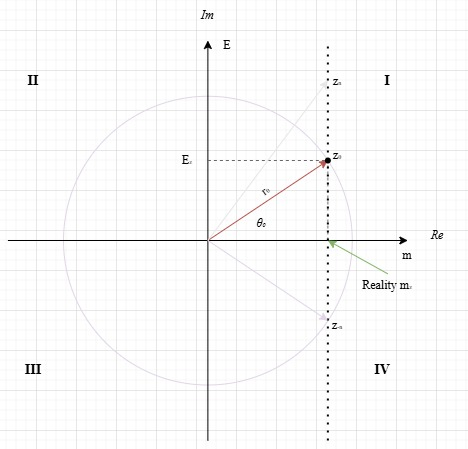
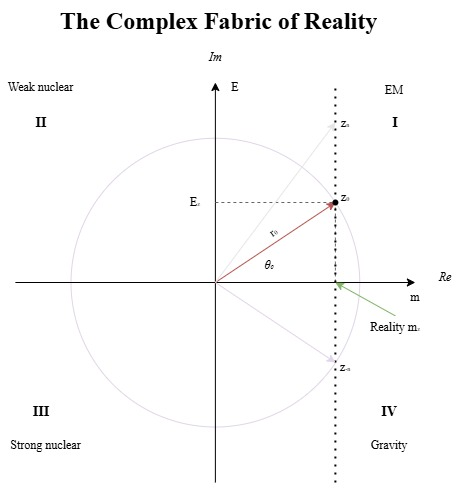
...

diff --git a/CHAPTER4.md b/CHAPTER4.md
@@ -1,12 +1,8 @@
-# Chapter 4: Mapping Reality
+# Chapter 4: Standard Model
 
-As we consider the implications of this mapping, we begin to see that our perception of reality may be a projection of the complex number $z$ onto the real axis. This projection serves as a crucial bridge between the abstract mathematical constructs of the complex plane and the tangible physical phenomena we experience in our daily lives. By viewing reality through this lens, we can interpret the myriad interactions and behaviors of particles as reflections of the underlying mathematical relationships that govern them.
+In quantum theory, the wave function describes the state of a particle and encodes information about its position and momentum. The square of the wave function's amplitude is interpreted as a probability density, indicating the likelihood of finding a particle in a particular state or location. In our model, the frequency of oscillation can be linked to this probability density. Higher frequencies may correspond to greater probabilities, suggesting that as the oscillations become more rapid, the likelihood of detecting a particle in a given state increases.
 
-The intricate dance of particles, for instance, can be understood as a manifestation of the oscillatory nature of the complex plane. Each particle, with its associated mass and energy, can be represented as a point in this plane, where its position and movement are dictated by the mathematical interactions encoded in the complex number $z$. The forces that govern these interactions—whether they be gravitational, electromagnetic, or nuclear—can also be seen as emergent properties arising from the relationships between these points in the complex plane.
+This relationship between frequency and probability density can also be visualized in terms of energy levels. In quantum systems, particles occupy discrete energy levels, and transitions between these levels can be represented by changes in frequency. The density of states, which describes how many states are available at a given energy level, can be influenced by the oscillatory nature of the wave function. Thus, the frequency derived from our polar representation not only encapsulates the passage of time but also serves as a bridge to understanding the probabilistic nature of mass and energy in the quantum realm.
 
-Moreover, the very fabric of spacetime itself can be viewed as a geometric representation of these mathematical relationships. In this framework, spacetime is not merely a backdrop for physical events but an active participant in the dynamics of the universe. The curvature of spacetime, as described by general relativity, can be interpreted as a consequence of the interactions between mass and energy, which are mapped onto the complex plane.
-
-This perspective invites us to reconsider the nature of reality itself. Rather than viewing it as a collection of isolated events and entities, we can see it as a coherent tapestry woven from the threads of mathematical relationships. The projection of $z$ onto the real axis allows us to experience the world as we do, but it also suggests that there is a deeper, more intricate structure at play—one that transcends our immediate sensory perceptions. By embracing this mathematical framework, we open ourselves to new insights and understandings of the universe, revealing the profound connections that bind together the fundamental forces, particles, and the very essence of reality.
-
-<a href="./CHAPTER3.md" style="float:left">&lt;&lt; Chapter 3: Quantum Analogy</a>
-<a href="./CHAPTER5.md" style="float:right">Chapter 5: The Quadrants of the Complex Plane &gt;&gt;</a>
+<a href="./CHAPTER3.md" style="float:left">&lt;&lt; Chapter 3: The Quadrants and their Implications</a>
+<a href="./CHAPTER5.md" style="float:right">Chapter 5: Mapping Reality &gt;&gt;</a>

diff --git a/CHAPTER5.md b/CHAPTER5.md
@@ -1,8 +1,12 @@
-# Chapter 5: Quantum Analogy
+# Chapter 5: Mapping Reality
 
-In quantum theory, the wave function describes the state of a particle and encodes information about its position and momentum. The square of the wave function's amplitude is interpreted as a probability density, indicating the likelihood of finding a particle in a particular state or location. In our model, the frequency of oscillation can be linked to this probability density. Higher frequencies may correspond to greater probabilities, suggesting that as the oscillations become more rapid, the likelihood of detecting a particle in a given state increases.
+As we consider the implications of this mapping, we begin to see that our perception of reality may be a projection of the complex number $z$ onto the real axis. This projection serves as a crucial bridge between the abstract mathematical constructs of the complex plane and the tangible physical phenomena we experience in our daily lives. By viewing reality through this lens, we can interpret the myriad interactions and behaviors of particles as reflections of the underlying mathematical relationships that govern them.
 
-This relationship between frequency and probability density can also be visualized in terms of energy levels. In quantum systems, particles occupy discrete energy levels, and transitions between these levels can be represented by changes in frequency. The density of states, which describes how many states are available at a given energy level, can be influenced by the oscillatory nature of the wave function. Thus, the frequency derived from our polar representation not only encapsulates the passage of time but also serves as a bridge to understanding the probabilistic nature of mass and energy in the quantum realm.
+The intricate dance of particles, for instance, can be understood as a manifestation of the oscillatory nature of the complex plane. Each particle, with its associated mass and energy, can be represented as a point in this plane, where its position and movement are dictated by the mathematical interactions encoded in the complex number $z$. The forces that govern these interactions—whether they be gravitational, electromagnetic, or nuclear—can also be seen as emergent properties arising from the relationships between these points in the complex plane.
 
-<a href="./CHAPTER4.md" style="float:left">&lt;&lt; Chapter 4: Reality as a Mapping</a>
+Moreover, the very fabric of spacetime itself can be viewed as a geometric representation of these mathematical relationships. In this framework, spacetime is not merely a backdrop for physical events but an active participant in the dynamics of the universe. The curvature of spacetime, as described by general relativity, can be interpreted as a consequence of the interactions between mass and energy, which are mapped onto the complex plane.
+
+This perspective invites us to reconsider the nature of reality itself. Rather than viewing it as a collection of isolated events and entities, we can see it as a coherent tapestry woven from the threads of mathematical relationships. The projection of $z$ onto the real axis allows us to experience the world as we do, but it also suggests that there is a deeper, more intricate structure at play—one that transcends our immediate sensory perceptions. By embracing this mathematical framework, we open ourselves to new insights and understandings of the universe, revealing the profound connections that bind together the fundamental forces, particles, and the very essence of reality.
+
+<a href="./CHAPTER4.md" style="float:left">&lt;&lt; Chapter 4: Standard Model</a>
 <a href="./CHAPTER6.md" style="float:right">Chapter 6: Mathematical Interactions and Reality &gt;&gt;</a>

diff --git a/CHAPTER3.md b/CHAPTER3.md
@@ -17,4 +17,4 @@ Delving deeper into the complex plane, we can explore the four quadrants and the
 Within this mathematical framework, specific regions of the complex plane could house the various particles that mediate these forces. For instance, bosons and leptons, as described in the Standard Model of particle physics, could occupy distinct areas within each quadrant, reflecting their unique properties and roles in the universe. This organization not only highlights the relationships between different particles and forces but also suggests a deeper symmetry and order underlying the chaotic nature of the physical world. By mapping these fundamental forces onto the complex plane, we gain a richer understanding of the universe's structure and the intricate dance of particles that define our reality.
 
 <a href="./CHAPTER2.md" style="float:left">&lt;&lt; Chapter 2: Polar Representation and Its Implications</a>
-<a href="./CHAPTER4.md" style="float:right">Chapter 4: Mapping Reality &gt;&gt;</a>
+<a href="./CHAPTER4.md" style="float:right">Chapter 4: Standard Model &gt;&gt;</a>

diff --git a/CHAPTER6.md b/CHAPTER6.md
@@ -8,5 +8,5 @@ This perspective invites us to reconsider our understanding of the universe, cha
 
 Moreover, embracing this mathematical framework encourages interdisciplinary collaboration, as insights from mathematics, physics, and even philosophy converge to form a more holistic view of reality. As we explore the implications of these mathematical interactions, we may find ourselves on the brink of new discoveries that not only deepen our understanding of the universe but also expand the horizons of human knowledge. The potential for innovation and discovery is vast, as this perspective opens the door to exploring uncharted territories in both theoretical and experimental physics, ultimately reshaping our conception of what is possible in the realm of science.
 
-<a href="./CHAPTER5.md" style="float:left">&lt;&lt; Chapter 5: The Quadrants of the Complex Plane</a>
+<a href="./CHAPTER5.md" style="float:left">&lt;&lt; Chapter 5: Mapping Reality</a>
 <a href="./CONCLUSION.md" style="float:right">Conclusion &gt;&gt;</a>

diff --git a/README.md b/README.md
@@ -1,4 +1,4 @@
-# The Mathematical Fabric of Reality
+# The Complex Fabric of Reality
 
 This work in progress pindaric flight explores **E**nergy, **M**ass, **T**ime and **S**pace in the complex plane.
 
@@ -10,7 +10,7 @@ Figure 1: $m_z$ is what we perceive at time $\theta_0$ and space $r_0$.
 - [Chapter 1: The Complex Plane](./CHAPTER1.md)
 - [Chapter 2: Polar Representation and its Implications](./CHAPTER2.md)
 - [Chapter 3: The Quadrants and their Implications](./CHAPTER3.md)
-- [Chapter 4: Reality as a Mapping](./CHAPTER4.md)
-- [Chapter 5: Quantum Analogy](./CHAPTER5.md)
+- [Chapter 4: Standard Model](./CHAPTER4.md)
+- [Chapter 5: Reality as a Mapping](./CHAPTER5.md)
 - [Chapter 6: Mathematical Interactions and Reality](./CHAPTER6.md)
 - [Conclusion](./CONCLUSION.md)

diff --git a/CHAPTER1.md b/CHAPTER1.md
@@ -1,4 +1,4 @@
-# Chapter 1: The Complex Plane: A Perspective
+# Chapter 1: The Complex Plane
 
 The connection between the complex plane and reality becomes especially significant when we consider the origins and applications of imaginary numbers. Historically, the introduction of imaginary numbers emerged from attempts to solve cubic equations, as first systematically explored by [Gerolamo Cardano](https://en.wikipedia.org/wiki/Gerolamo_Cardano) in the 16th century. Cardano discovered that even when all solutions to a cubic equation were real, the algebraic process sometimes required passing through intermediate steps involving the square roots of negative numbers—quantities that had no clear interpretation at the time.
 

diff --git a/CHAPTER2.md b/CHAPTER2.md
@@ -66,5 +66,5 @@ This approach allows us to reinterpret the modulus $r$ as a spatial quantity (me
 
 The projection of $z$ on the real axis $m_z$ as a function of $\theta$, i.e., $r = m_z / cos(\theta)$, tells us that at different moments in time $m_z$ appears the same to us yet its $E_z$ changes.
 
-<a href="./CHAPTER1.md" style="float:left">&lt;&lt; Chapter 1: The Complex Plane: A Perspective</a>
+<a href="./CHAPTER1.md" style="float:left">&lt;&lt; Chapter 1: The Complex Plane</a>
 <a href="./CHAPTER3.md" style="float:right">Chapter 3: The Quadrants and their Implications &gt;&gt;</a>

diff --git a/PREFACE.md b/PREFACE.md
@@ -5,5 +5,5 @@ In the realm of scientific discovery, pure mathematics has often served as the b
 > Don't think it doesn't make sense; ask yourself what sense it could have.
 > — *myself*
 
-<a href="./README.md" style="float:left">&lt;&lt; The Mathematical Fabric of Reality</a>
-<a href="./CHAPTER1.md" style="float:right">Chapter 1: The Complex Plane: A Perspective &gt;&gt;</a>
+<a href="./README.md" style="float:left">&lt;&lt; The Complex Fabric of Reality</a>
+<a href="./CHAPTER1.md" style="float:right">Chapter 1: The Complex Plane &gt;&gt;</a>
